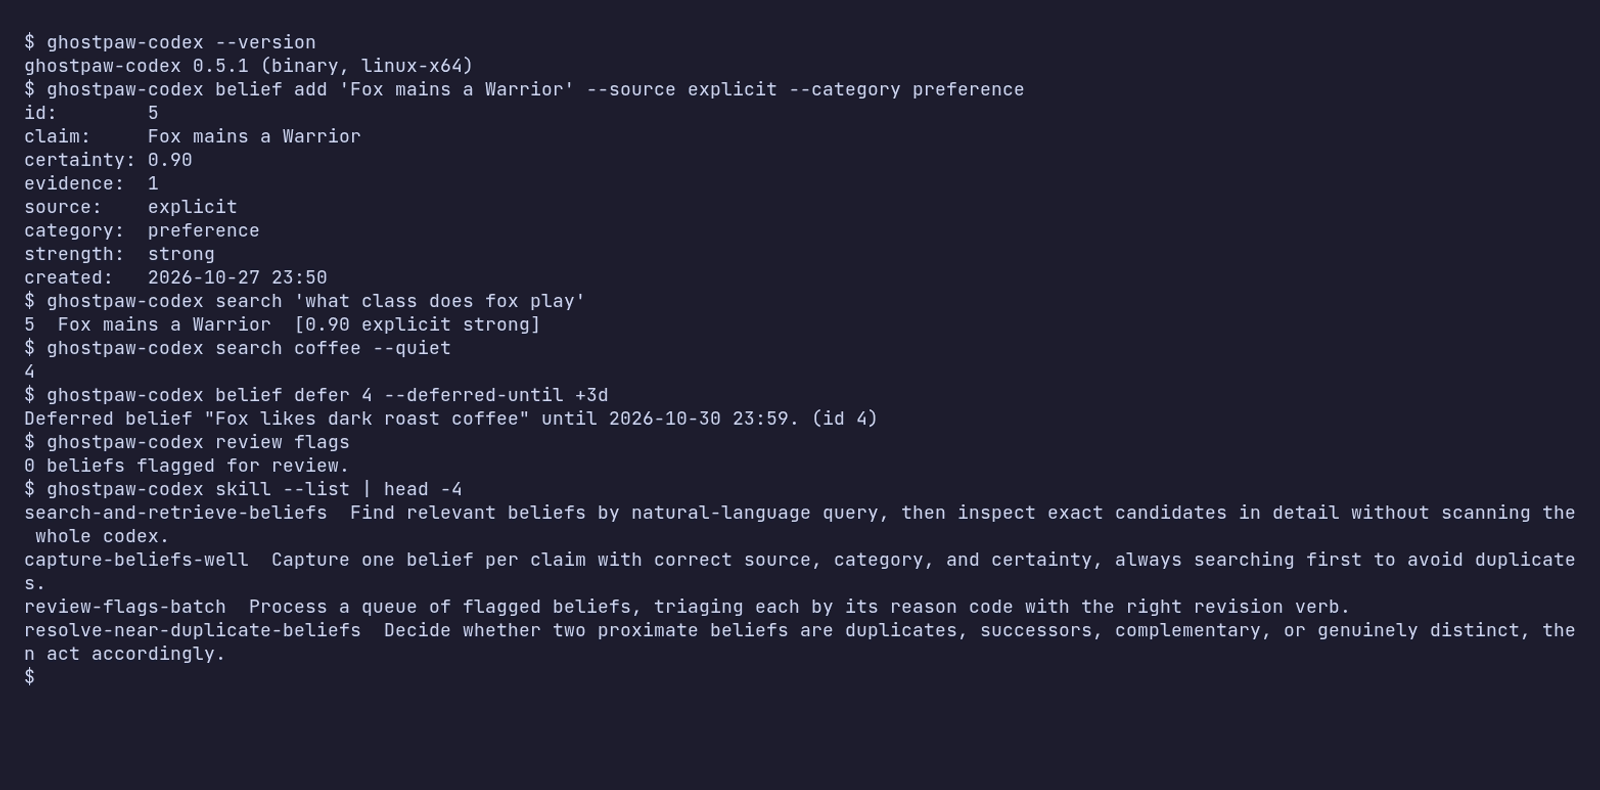
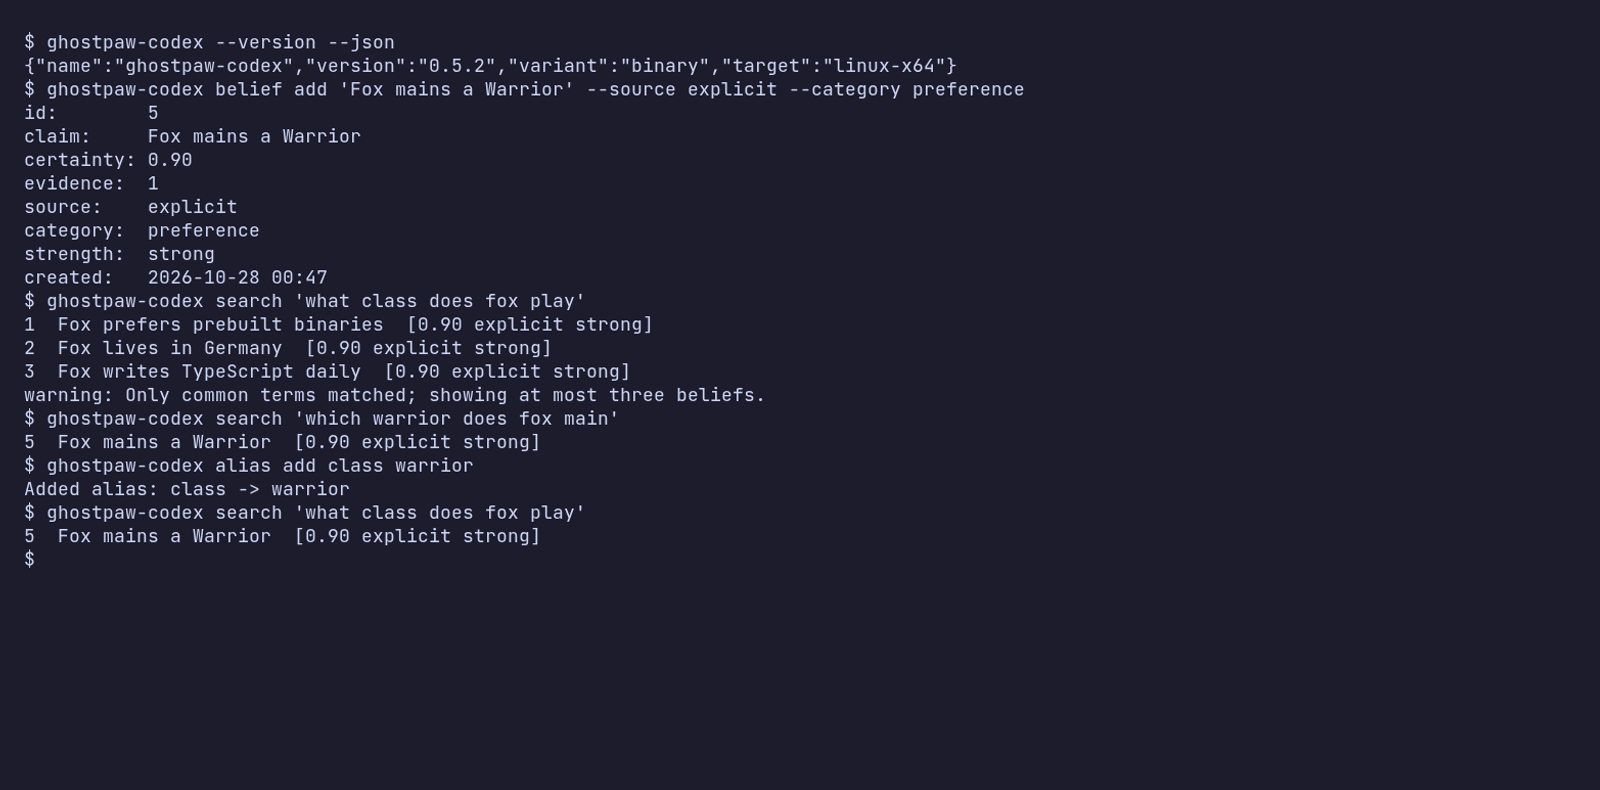
docs: 0.5.2 terminal session, site install PATH wording and lexical recall note

diff --git a/site/release/index.html b/site/release/index.html
@@ -30,7 +30,7 @@
 <main>
   <section class=hero aria-labelledby=hero-title>
     <div class=hero-copy>
-      <p class=kicker><code>@ghostpaw/codex</code> <span class=ver>0.5.1</span></p>
+      <p class=kicker><code>@ghostpaw/codex</code> <span class=ver>0.5.2</span></p>
       <h1 id=hero-title>When one agent saves a wrong fact, every agent trusts it.</h1>
       <p class=lede>codex keeps what your agent believes as beliefs with a source, a certainty and a history, so you can read and delete them one at a time instead of rereading MEMORY.md.</p>
       <div class=install>
@@ -87,7 +87,7 @@
       <div class=step-text>
         <h3>Another session finds it</h3>
         <p>A day later a different session asks about the API and gets the belief back with the flags still on it. That is the point: the second agent sees a guess, not a fact.</p>
-        <p>Recall is full-text search plus local similarity. No model is called.</p>
+        <p>Recall is lexical: full-text search with rarer words weighted higher, plus character-trigram similarity. No model is called.</p>
       </div>
       <div class="belief flagged">
         <p class=belief-id>Belief #1 · fact · recalled</p>
@@ -215,7 +215,7 @@ read.recall(db, &#39;graphql api&#39;); // []</code></pre></div>
 
   <section id=binaries class=binaries aria-labelledby=binaries-title>
     <h2 id=binaries-title>Install</h2>
-    <p class=intro>The default way to run <code>ghostpaw-codex</code>: one executable per platform with Node.js inside, with the same commands and the same MCP server as the npm package. Each line downloads the latest release, checks it against the release&#39;s SHA256SUMS and puts the binary on the PATH (<code>~/.local/bin</code>; the Windows script adds its folder to the user PATH).</p>
+    <p class=intro>The default way to run <code>ghostpaw-codex</code>: one executable per platform with Node.js inside, with the same commands and the same MCP server as the npm package. Each line downloads the latest release, checks it against the release&#39;s SHA256SUMS and installs the binary into <code>~/.local/bin</code>. The trailing <code>export</code> puts that folder on PATH for the current shell only; nothing edits <code>~/.profile</code>. The Windows script adds its folder to the user PATH.</p>
     <div class=bin-cmds>
         <div><p class=cmd-label id=bin-linux-x64-label>linux-x64</p>
         <div class=cmd><textarea id=bin-linux-x64 readonly rows=2 aria-labelledby=bin-linux-x64-label spellcheck=false>curl -fsSL https://raw.githubusercontent.com/GhostPawJS/codex/main/install.sh | sh -s -- --target linux-x64 &amp;&amp; export PATH=&#34;$HOME/.local/bin:$PATH&#34;</textarea><button type=button class=copy data-copy=bin-linux-x64>Copy</button></div></div>
@@ -228,14 +228,20 @@ read.recall(db, &#39;graphql api&#39;); // []</code></pre></div>
         <div><p class=cmd-label id=bin-windows-x64-label>windows-x64 (PowerShell)</p>
         <div class=cmd><textarea id=bin-windows-x64 readonly rows=2 aria-labelledby=bin-windows-x64-label spellcheck=false>irm https://raw.githubusercontent.com/GhostPawJS/codex/main/install.ps1 | iex</textarea><button type=button class=copy data-copy=bin-windows-x64>Copy</button></div></div>
     </div>
+    <div class=bin-cmds>
+        <div><p class=cmd-label id=bin-profile-label>Keep it on PATH in new shells (appends one line to ~/.profile)</p>
+        <div class=cmd><input id=bin-profile readonly value="echo 'export PATH=&#34;$HOME/.local/bin:$PATH&#34;' &gt;&gt; ~/.profile" aria-labelledby=bin-profile-label spellcheck=false><button type=button class=copy data-copy=bin-profile>Copy</button></div></div>
+        <div><p class=cmd-label id=bin-pin-label>Pin a release instead of the latest (add --version)</p>
+        <div class=cmd><textarea id=bin-pin readonly rows=2 aria-labelledby=bin-pin-label spellcheck=false>curl -fsSL https://raw.githubusercontent.com/GhostPawJS/codex/main/install.sh | sh -s -- --target linux-x64 --version 0.5.2 &amp;&amp; export PATH=&#34;$HOME/.local/bin:$PATH&#34;</textarea><button type=button class=copy data-copy=bin-pin>Copy</button></div></div>
+    </div>
     <dl class="ledger wide">
       <div><dt>linux-x64</dt><dd>41.7 MB tar.gz</dd></div>
-      <div><dt>linux-arm64</dt><dd>41.1 MB tar.gz</dd></div>
+      <div><dt>linux-arm64</dt><dd>41.2 MB tar.gz</dd></div>
       <div><dt>darwin-arm64</dt><dd>44.8 MB tar.gz</dd></div>
       <div><dt>darwin-x64</dt><dd>46.4 MB tar.gz</dd></div>
       <div><dt>windows-x64</dt><dd>38.4 MB zip</dd></div>
     </dl>
-    <p class=note>Archive sizes of the v0.5.1 release assets. Linux builds need glibc 2.28 or newer; on Alpine, use npx.</p>
+    <p class=note>Archive sizes of the v0.5.2 release assets. Linux builds need glibc 2.28 or newer; on Alpine, use npx.</p>
     <h3>Other release installers</h3>
     <div class=bin-cmds>
         <div><p class=cmd-label id=bin-mise-label>mise</p>
@@ -263,10 +269,10 @@ read.recall(db, &#39;graphql api&#39;); // []</code></pre></div>
       <li>The binaries are not code signed. macOS builds carry an ad-hoc signature, so a browser download needs <code>xattr -d com.apple.quarantine ghostpaw-codex</code>. Windows may show a SmartScreen warning for a browser download.</li>
     </ul>
     <figure class=shot>
-      <a href=https://raw.githubusercontent.com/GhostPawJS/codex/main/docs/assets/cli.png><img src=./cli-1600-d10e85c77d40.webp srcset="./cli-800-75d42ac4afe1.webp 800w, ./cli-1600-d10e85c77d40.webp 1600w" sizes="(min-width: 68rem) 64rem, 100vw" width=1600 height=790 decoding=async alt="Terminal session with ghostpaw-codex 0.5.1: --version prints the binary target, belief add prints a compact block, search for what class does fox play returns Fox mains a Warrior, search --quiet prints an id, belief defer +3d prints the date, review flags reports none for new beliefs, and skill --list lists workflow guides." loading=lazy></a>
-      <figcaption>A session with the 0.5.1 linux-x64 binary against a small database of five beliefs. Open the image for full size.</figcaption>
+      <a href=https://raw.githubusercontent.com/GhostPawJS/codex/main/docs/assets/cli.png><img src=./cli-1600-6a3d671b381a.webp srcset="./cli-800-ddfb5a0b45aa.webp 800w, ./cli-1600-6a3d671b381a.webp 1600w" sizes="(min-width: 68rem) 64rem, 100vw" width=1600 height=790 decoding=async alt="Terminal session with ghostpaw-codex 0.5.2: --version --json prints name, version, variant and target; belief add prints a compact block; search for what class does fox play shares only common words, so it returns three beliefs and a low-signal warning; search for which warrior does fox main returns Fox mains a Warrior; after alias add class warrior, the first query returns that belief too." loading=lazy></a>
+      <figcaption>A session with the 0.5.2 linux-x64 binary against a small database of five beliefs. Open the image for full size.</figcaption>
     </figure>
-    <p class=links><a class=more href=https://github.com/GhostPawJS/codex/releases/tag/v0.5.1>Release v0.5.1</a><a href=https://github.com/GhostPawJS/codex#install>Install notes in the README</a><a href=https://cli.github.com/manual/gh_attestation_verify>gh attestation verify</a></p>
+    <p class=links><a class=more href=https://github.com/GhostPawJS/codex/releases/tag/v0.5.2>Release v0.5.2</a><a href=https://github.com/GhostPawJS/codex#install>Install notes in the README</a><a href=https://cli.github.com/manual/gh_attestation_verify>gh attestation verify</a></p>
   </section>
 
   <section class=start aria-labelledby=start-title>
@@ -312,6 +318,6 @@ read.listFlags(db);</code></pre>
 
 
 
-<script type=application/ld+json>{"@context":"https://schema.org","@graph":[{"@type":"SoftwareSourceCode","author":{"@id":"https://ghostpaw.dev/#org","@type":"Organization","name":"GhostPaw"},"codeRepository":"https://github.com/GhostPawJS/codex","description":"@ghostpaw/codex stores what your agent believes as claims with a source, a certainty and a revision history. Flags show what is stale or weakly sourced; one call corrects or deletes. One executable per platform or npm (Node.js 24+), zero dependencies, MIT.","license":"https://opensource.org/license/mit","name":"@ghostpaw/codex","programmingLanguage":"TypeScript","runtimePlatform":"Node.js 24","version":"0.5.1"}]}</script><script>document.documentElement.classList.add("js");
+<script type=application/ld+json>{"@context":"https://schema.org","@graph":[{"@type":"SoftwareSourceCode","author":{"@id":"https://ghostpaw.dev/#org","@type":"Organization","name":"GhostPaw"},"codeRepository":"https://github.com/GhostPawJS/codex","description":"@ghostpaw/codex stores what your agent believes as claims with a source, a certainty and a revision history. Flags show what is stale or weakly sourced; one call corrects or deletes. One executable per platform or npm (Node.js 24+), zero dependencies, MIT.","license":"https://opensource.org/license/mit","name":"@ghostpaw/codex","programmingLanguage":"TypeScript","runtimePlatform":"Node.js 24","version":"0.5.2"}]}</script><script>document.documentElement.classList.add("js");
 </script><script type=module>(()=>{document.documentElement.classList.add("js");let t=[...document.querySelectorAll('.drill [role="tab"]')],i=[...document.querySelectorAll(".step")],a=document.getElementById("next-step");function s(n,c,l){let o=t[n]||t[0];if(t.forEach(e=>{let r=e===o;e.setAttribute("aria-selected",String(r)),e.tabIndex=r?0:-1}),i.forEach(e=>{let r=e.id===o.getAttribute("aria-controls");e.hidden=!r,e.classList.toggle("open",r)}),a){let e=t.indexOf(o)===t.length-1;a.textContent=e?"Start again":"Next move"}if(c&&o.focus(),l){let e=new URL(location.href);e.searchParams.set("step",String(t.indexOf(o)+1)),history.replaceState(null,"",e)}}if(t.length){t.forEach((c,l)=>{c.addEventListener("click",()=>s(l,!1,!0)),c.addEventListener("keydown",o=>{let e=null;o.key==="ArrowRight"&&(e=(l+1)%t.length),o.key==="ArrowLeft"&&(e=(l-1+t.length)%t.length),o.key==="Home"&&(e=0),o.key==="End"&&(e=t.length-1),e!==null&&(o.preventDefault(),s(e,!0,!0))})}),a&&(a.hidden=!1,a.addEventListener("click",()=>{let c=t.findIndex(l=>l.getAttribute("aria-selected")==="true");s((c+1)%t.length,!1,!0)}));let n=Number(new URLSearchParams(location.search).get("step"));s(n>=1&&n<=t.length?n-1:0,!1,!1)}document.querySelectorAll(".copy").forEach(n=>{n.addEventListener("click",async()=>{let c=document.getElementById(n.dataset.copy);if(!c)return;try{await navigator.clipboard.writeText(c.value)}catch{c.select(),document.execCommand("copy")}let l=n.textContent;n.textContent="Copied",setTimeout(()=>{n.textContent=l},2e3)})})})();
 </script><script defer src=https://static.cloudflareinsights.com/beacon.min.js data-cf-beacon='{"token": "eb094a31847f4b1b96558586692a6f73"}'></script></body></html>

diff --git a/README.md b/README.md
@@ -84,7 +84,7 @@ $ ghostpaw-codex --version --json
 
 A session with the 0.5.2 linux-x64 binary against a small database of five beliefs:
 
-![ghostpaw-codex 0.5.2: version, belief add, a low-signal search with its warning, a distinctive-word search, search --quiet, belief defer, review flags and skill --list](https://raw.githubusercontent.com/GhostPawJS/codex/main/docs/assets/cli.png)
+![ghostpaw-codex 0.5.2: version --json, belief add, a common-word search with its low-signal warning, a distinctive-word search, alias add and the aliased search](https://raw.githubusercontent.com/GhostPawJS/codex/main/docs/assets/cli.png)
 
 The same session as an [animated GIF](https://raw.githubusercontent.com/GhostPawJS/codex/main/docs/assets/cli.gif).
 
@@ -146,7 +146,7 @@ Approximate sizes for 0.5.2 (Node 26.12.1 inside each binary):
 | Target | Archive | Binary |
 |---|---|---|
 | linux-x64 | 41.7 MB tar.gz | 117.4 MB |
-| linux-arm64 | 41.1 MB tar.gz | 115.2 MB |
+| linux-arm64 | 41.2 MB tar.gz | 115.2 MB |
 | darwin-arm64 | 44.8 MB tar.gz | 146.7 MB |
 | darwin-x64 | 46.4 MB tar.gz | 149.5 MB |
 | windows-x64 | 38.4 MB zip | 105.6 MB |
